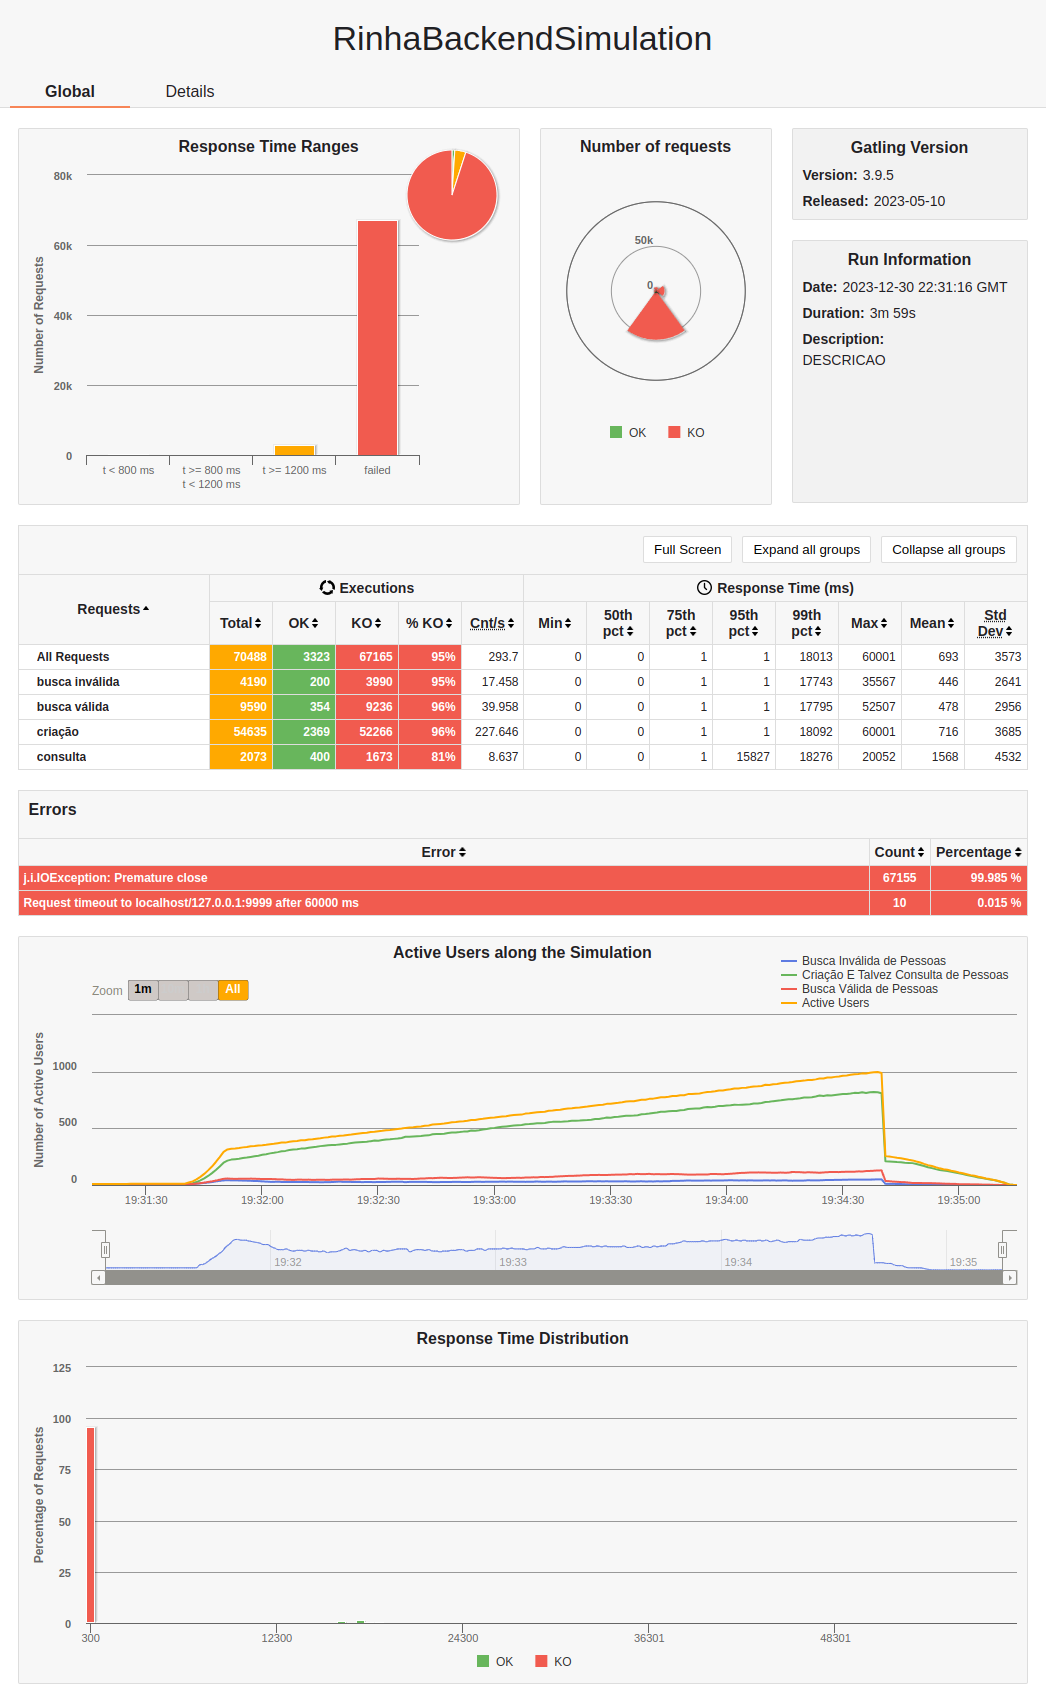
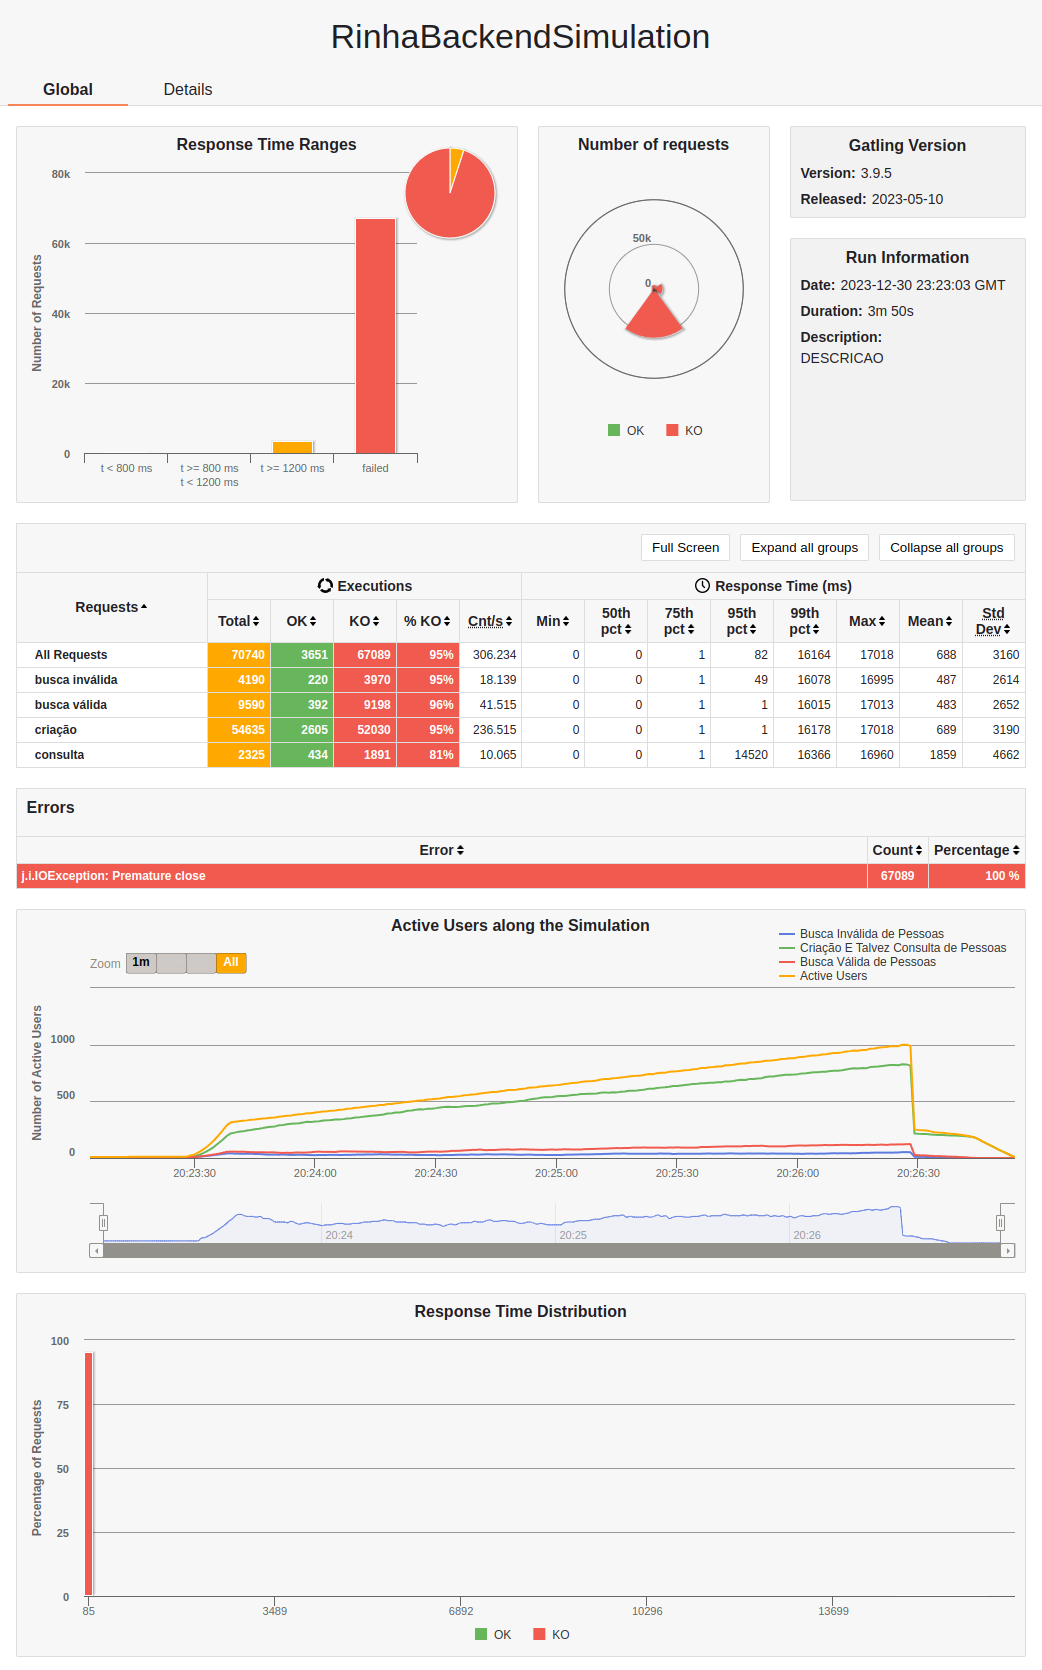
update to nginx and php fpm again

diff --git a/README.md b/README.md
@@ -13,6 +13,8 @@ Implementar a rinha em PHP usando o Laravel, e sem fazer nenuma adição de cach
     - piorou
     - eu também tenho uma teoria do motivo da piora, apenas com o "Built-in server do PHP", que roda com apenas 1 de concorrência, o container já topa os 0.5% de CPU, então aumentar a concorrência não faz sentido se não tiver recursos
 3. remover nginx e php-fpm
+4. adicionar denovo
+    - um pouco mais de ajustes no nginx ajudam a dar mais uns 300 inscrições no banco
 
 ## Conclusões
 
@@ -38,33 +40,32 @@ Além de que por algumas limitações do ORM do Laravel, algumas coisas bem pesa
 ##### Resultado do gatling console
 
 ```
-Simulation RinhaBackendSimulation completed in 239 seconds
+Simulation RinhaBackendSimulation completed in 231 seconds
 Parsing log file(s)...
 Parsing log file(s) done
 Generating reports...
 
 ================================================================================
 ---- Global Information --------------------------------------------------------
-> request count                                      70488 (OK=3323   KO=67165 )
-> min response time                                      0 (OK=48     KO=0     )
-> max response time                                  60001 (OK=56651  KO=60001 )
-> mean response time                                   693 (OK=14508  KO=9     )
-> std deviation                                       3573 (OK=7723   KO=732   )
-> response time 50th percentile                          0 (OK=17180  KO=0     )
-> response time 75th percentile                          1 (OK=17935  KO=1     )
-> response time 95th percentile                          1 (OK=18955  KO=1     )
-> response time 99th percentile                      18013 (OK=49826  KO=1     )
-> mean requests/sec                                  293.7 (OK=13.846 KO=279.854)
+> request count                                      70740 (OK=3651   KO=67089 )
+> min response time                                      0 (OK=45     KO=0     )
+> max response time                                  17018 (OK=17018  KO=7     )
+> mean response time                                   688 (OK=13321  KO=0     )
+> std deviation                                       3160 (OK=5019   KO=0     )
+> response time 50th percentile                          0 (OK=15193  KO=0     )
+> response time 75th percentile                          1 (OK=16048  KO=1     )
+> response time 95th percentile                         82 (OK=16625  KO=1     )
+> response time 99th percentile                      16164 (OK=16919  KO=1     )
+> mean requests/sec                                306.234 (OK=15.805 KO=290.429)
 ---- Response Time Distribution ------------------------------------------------
-> t < 800 ms                                           353 (  1%)
-> 800 ms <= t < 1200 ms                                 16 (  0%)
-> t >= 1200 ms                                        2954 (  4%)
-> failed                                             67165 ( 95%)
+> t < 800 ms                                           319 (  0%)
+> 800 ms <= t < 1200 ms                                 15 (  0%)
+> t >= 1200 ms                                        3317 (  5%)
+> failed                                             67089 ( 95%)
 ---- Errors --------------------------------------------------------------------
-> j.i.IOException: Premature close                                67155 (99.99%)
-> Request timeout to localhost/127.0.0.1:9999 after 60000 ms         10 ( 0.01%)
+> j.i.IOException: Premature close                                67089 (100.0%)
 ================================================================================
-A contagem de pessoas é: 2078
+A contagem de pessoas é: 2325
 ```
 
 ##### Recusos do docker durante a parte mais pesada do teste
